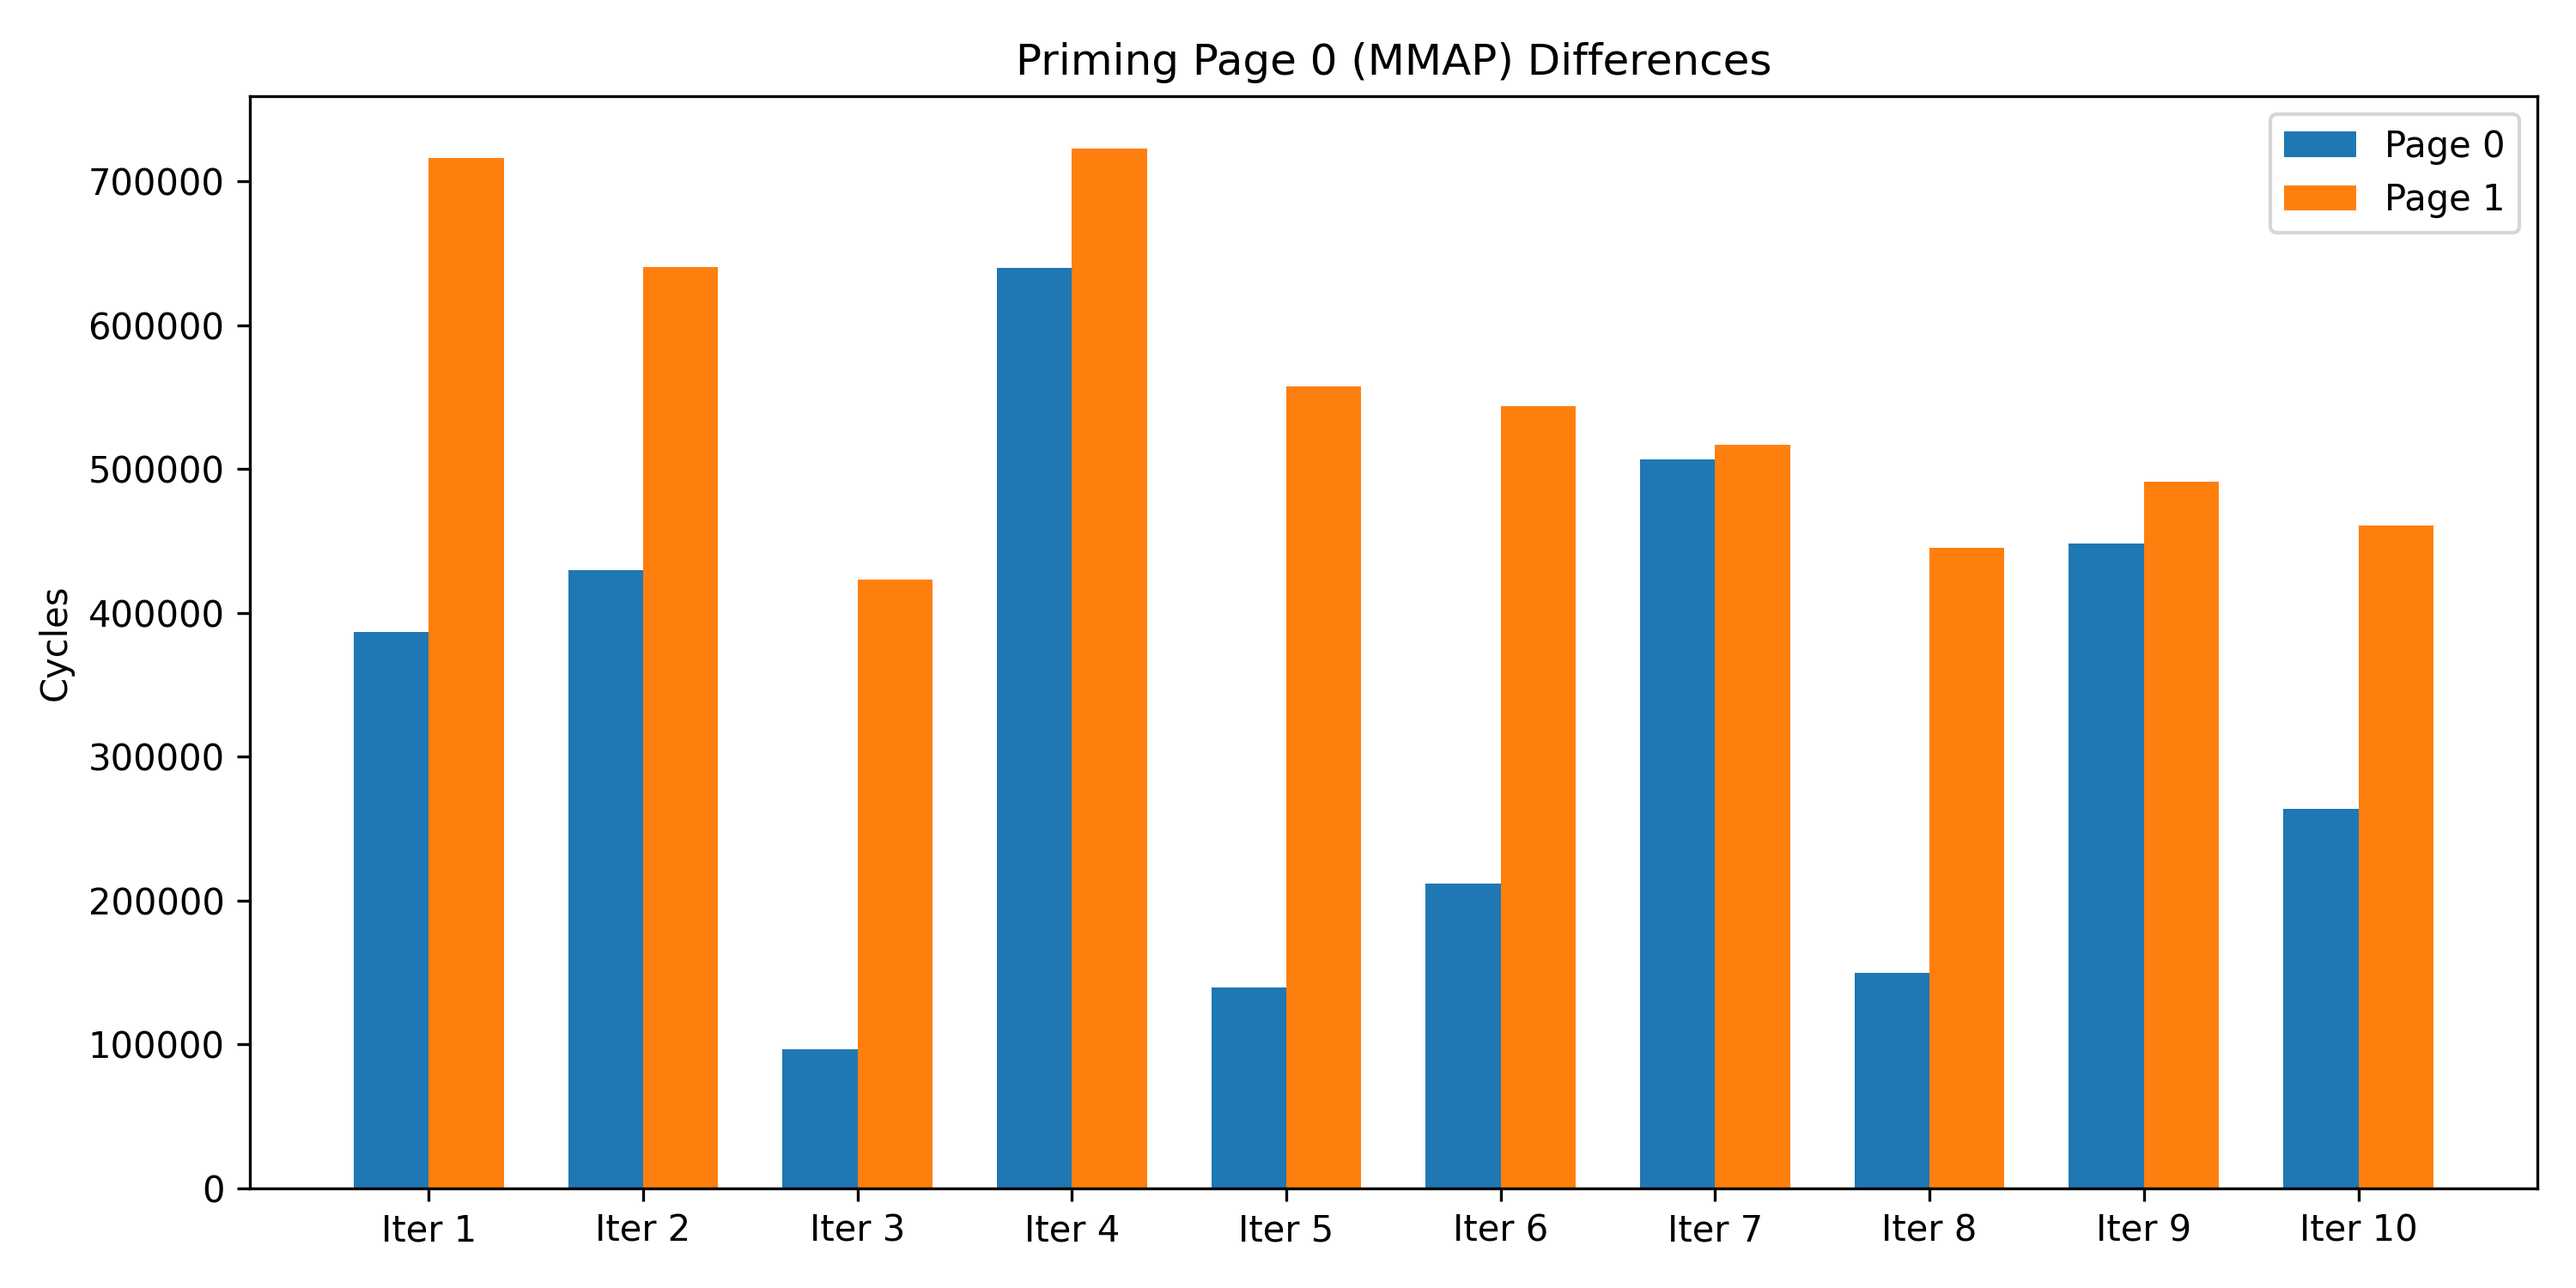
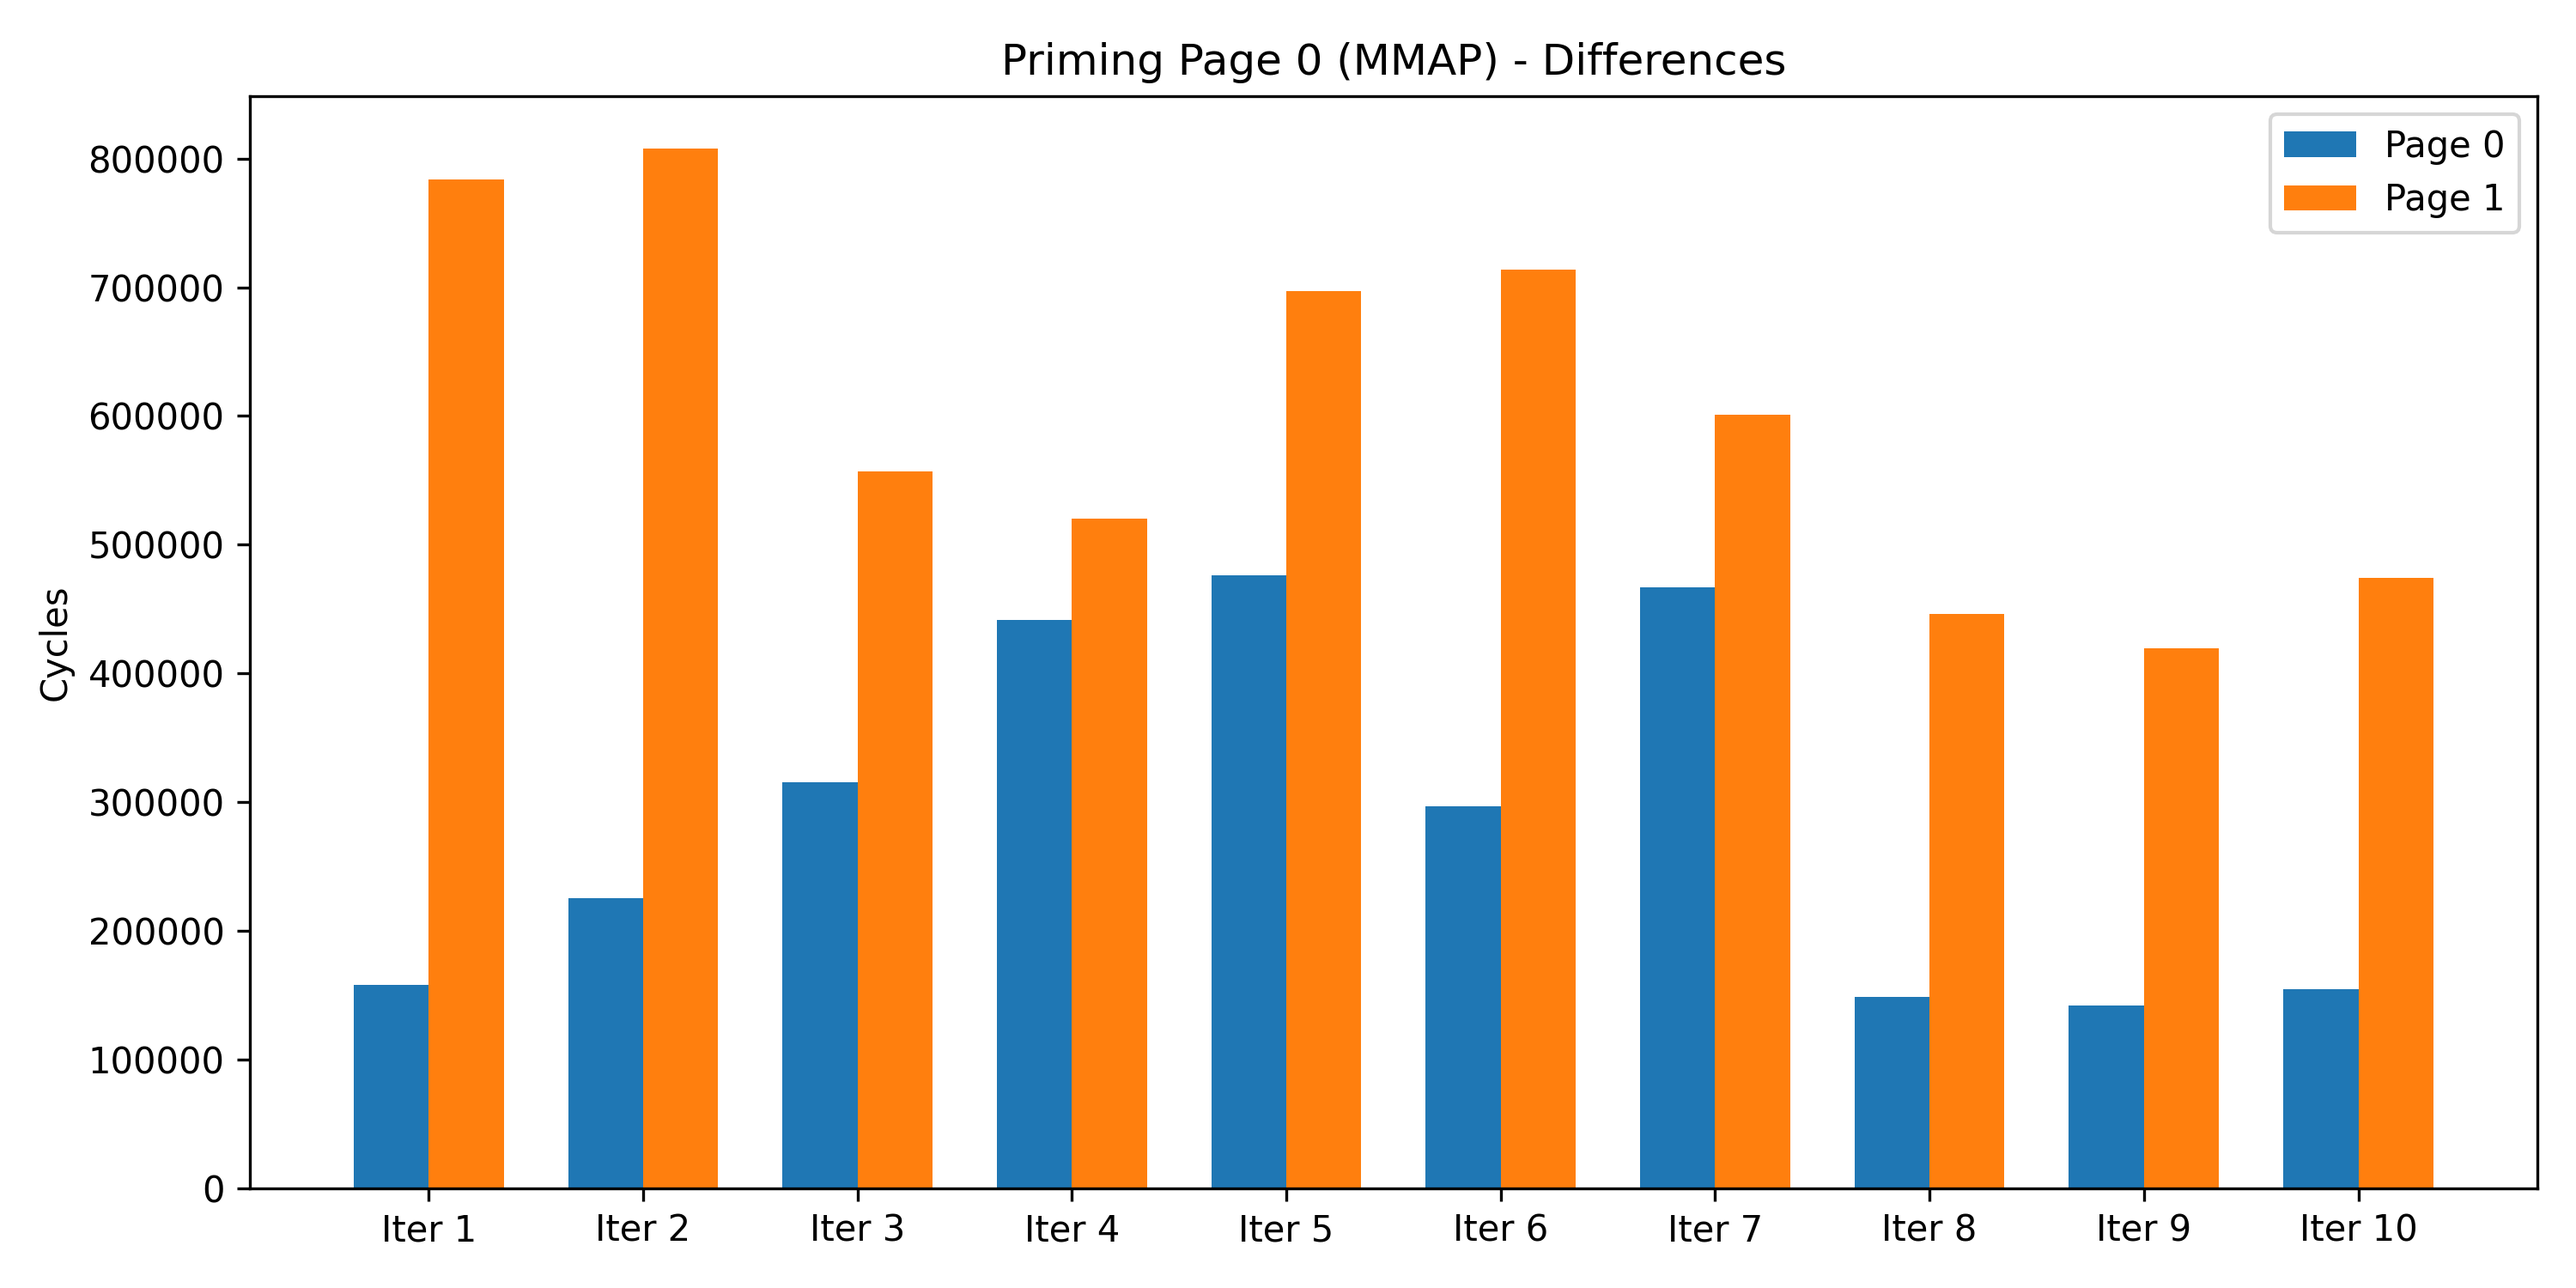
Updated plots

diff --git a/plot_gVisor.py b/plot_gVisor.py
@@ -60,9 +60,12 @@ def main():
     args = parse_args()
     
     if args.diff:
-        plot_diff(args.arr0, args.arr1, args.title, args.out)
-    else:
-        plot(args.p0, args.p1, args.std0, args.std1, args.title, args.out)
+        diff_title = args.title + " - Differences"
+        diff_out = "diff_" + args.out
+        plot_diff(args.arr0, args.arr1, diff_title, diff_out)
+    
+    avg_title = args.title + " - Average"
+    plot(args.p0, args.p1, args.std0, args.std1, avg_title, args.out)
 
 if __name__ == "__main__":
     main()
